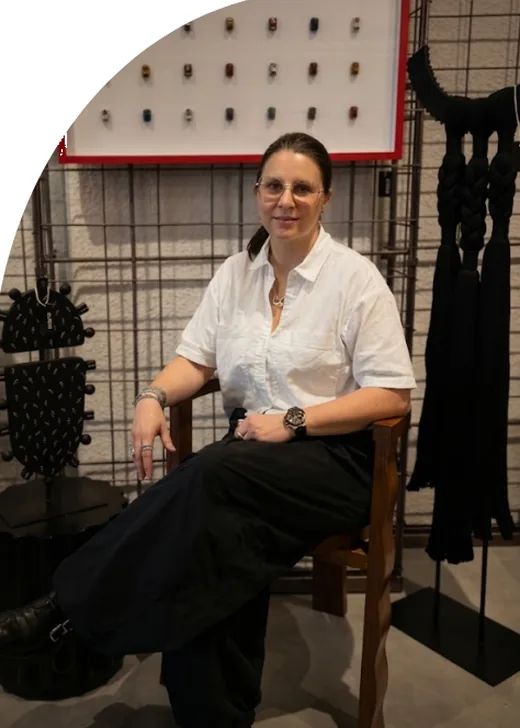
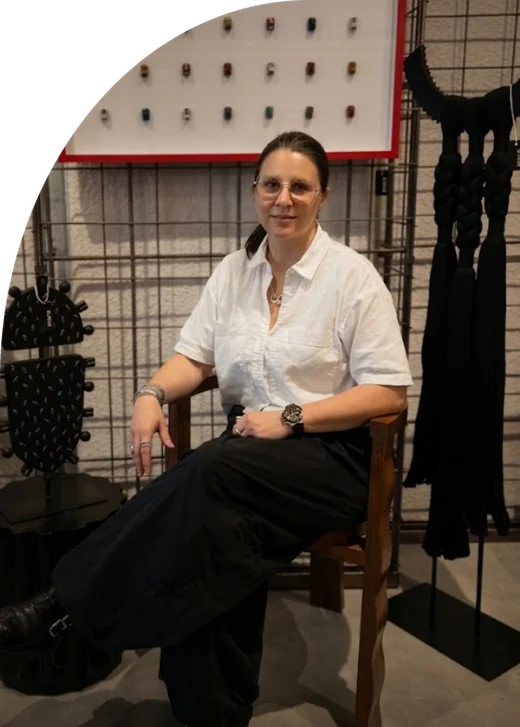
Add files via upload

diff --git a/preview/artistas/andres.html b/preview/artistas/andres.html
@@ -32,20 +32,18 @@
   .bio{margin-top:48px; font-size:clamp(17px,1.45vw,20px); line-height:1.75; text-align:justify; -webkit-hyphens:auto; hyphens:auto; max-width:520px}
   .bio p+p{margin-top:22px}
   .fotos{display:flex; flex-direction:column; gap:20px; min-width:0}
-  .fotos .principal{width:100%; aspect-ratio:490/690; object-fit:cover}
+  .fotos .principal{width:100%; height:auto}
   .fotos .taller{width:100%; aspect-ratio:4/3; object-fit:cover}
 
   /* foto a la derecha */
   .perfil.der .col-texto{order:1}
   .perfil.der .fotos{order:2}
   .perfil.der .nombre{border-radius:36px 0 0 36px; margin-right:-48px; margin-left:18%}
-  .perfil.der .principal{border-top-left-radius:60% 44%}
   .perfil.der .bio{margin-left:auto}
   /* foto a la izquierda */
   .perfil.izq .fotos{order:1}
   .perfil.izq .col-texto{order:2}
   .perfil.izq .nombre{border-radius:0 36px 36px 0; margin-left:-48px; margin-right:18%}
-  .perfil.izq .principal{border-top-right-radius:60% 44%}
 
   .obras{text-align:center; padding:72px 24px 96px}
   .obras .boton{display:inline-flex; align-items:center; gap:14px; text-decoration:none; transition:background .25s ease, color .25s ease; font-family:'Lexend Exa',sans-serif; font-weight:400; text-transform:uppercase; color:var(--copper);

diff --git a/preview/artistas/gabriela.html b/preview/artistas/gabriela.html
@@ -32,20 +32,18 @@
   .bio{margin-top:48px; font-size:clamp(17px,1.45vw,20px); line-height:1.75; text-align:justify; -webkit-hyphens:auto; hyphens:auto; max-width:520px}
   .bio p+p{margin-top:22px}
   .fotos{display:flex; flex-direction:column; gap:20px; min-width:0}
-  .fotos .principal{width:100%; aspect-ratio:490/690; object-fit:cover}
+  .fotos .principal{width:100%; height:auto}
   .fotos .taller{width:100%; aspect-ratio:4/3; object-fit:cover}
 
   /* foto a la derecha */
   .perfil.der .col-texto{order:1}
   .perfil.der .fotos{order:2}
   .perfil.der .nombre{border-radius:36px 0 0 36px; margin-right:-48px; margin-left:18%}
-  .perfil.der .principal{border-top-left-radius:60% 44%}
   .perfil.der .bio{margin-left:auto}
   /* foto a la izquierda */
   .perfil.izq .fotos{order:1}
   .perfil.izq .col-texto{order:2}
   .perfil.izq .nombre{border-radius:0 36px 36px 0; margin-left:-48px; margin-right:18%}
-  .perfil.izq .principal{border-top-right-radius:60% 44%}
 
   .obras{text-align:center; padding:72px 24px 96px}
   .obras .boton{display:inline-flex; align-items:center; gap:14px; text-decoration:none; transition:background .25s ease, color .25s ease; font-family:'Lexend Exa',sans-serif; font-weight:400; text-transform:uppercase; color:var(--copper);

diff --git a/preview/artistas/lis.html b/preview/artistas/lis.html
@@ -32,20 +32,18 @@
   .bio{margin-top:48px; font-size:clamp(17px,1.45vw,20px); line-height:1.75; text-align:justify; -webkit-hyphens:auto; hyphens:auto; max-width:520px}
   .bio p+p{margin-top:22px}
   .fotos{display:flex; flex-direction:column; gap:20px; min-width:0}
-  .fotos .principal{width:100%; aspect-ratio:490/690; object-fit:cover}
+  .fotos .principal{width:100%; height:auto}
   .fotos .taller{width:100%; aspect-ratio:4/3; object-fit:cover}
 
   /* foto a la derecha */
   .perfil.der .col-texto{order:1}
   .perfil.der .fotos{order:2}
   .perfil.der .nombre{border-radius:36px 0 0 36px; margin-right:-48px; margin-left:18%}
-  .perfil.der .principal{border-top-left-radius:60% 44%}
   .perfil.der .bio{margin-left:auto}
   /* foto a la izquierda */
   .perfil.izq .fotos{order:1}
   .perfil.izq .col-texto{order:2}
   .perfil.izq .nombre{border-radius:0 36px 36px 0; margin-left:-48px; margin-right:18%}
-  .perfil.izq .principal{border-top-right-radius:60% 44%}
 
   .obras{text-align:center; padding:72px 24px 96px}
   .obras .boton{display:inline-flex; align-items:center; gap:14px; text-decoration:none; transition:background .25s ease, color .25s ease; font-family:'Lexend Exa',sans-serif; font-weight:400; text-transform:uppercase; color:var(--copper);

diff --git a/preview/index.html b/preview/index.html
@@ -54,7 +54,7 @@
 
   .artista{position:relative; z-index:1; display:flex; align-items:center; margin-bottom:56px}
   .artista figure{width:min(46%,500px); flex-shrink:0}
-  .artista img{width:100%; aspect-ratio:490/690; object-fit:cover; background:#eee}
+  .artista img{width:100%; height:auto}
   .artista .nombre{
     font-family:'Lexend Exa',sans-serif; font-weight:400; text-transform:uppercase; color:#fff; background:var(--copper);
     font-size:clamp(16px,2.4vw,30px); line-height:1.25; letter-spacing:.01em; text-align:center;
@@ -69,11 +69,9 @@
   /* derecha: foto a la derecha, etiqueta a su izquierda */
   .artista.der{justify-content:flex-end}
   .artista.der .nombre{border-radius:36px 0 0 36px; margin-right:-2px}
-  .artista.der img{border-top-left-radius:60% 44%}
   /* izquierda: foto a la izquierda, etiqueta a su derecha */
   .artista.izq{justify-content:flex-start}
   .artista.izq .nombre{border-radius:0 36px 36px 0; margin-left:-2px; order:2}
-  .artista.izq img{border-top-right-radius:60% 44%}
   .artista.der .nombre{margin-top:24%}
   .artista.izq .nombre{margin-top:24%}
 
